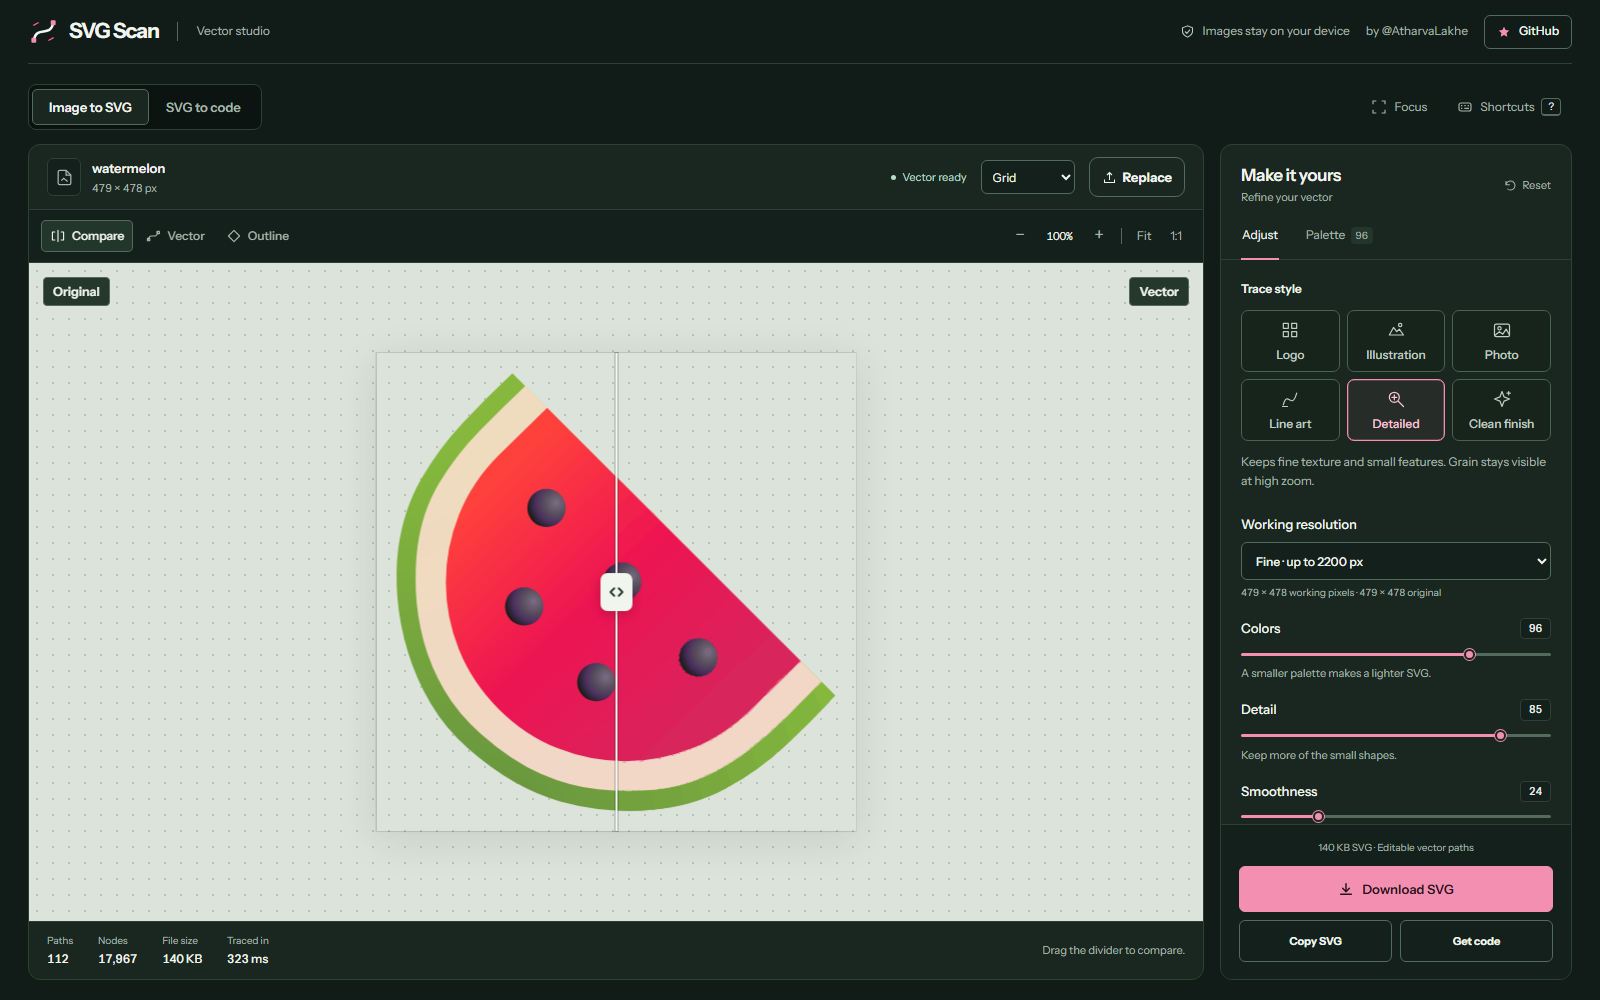
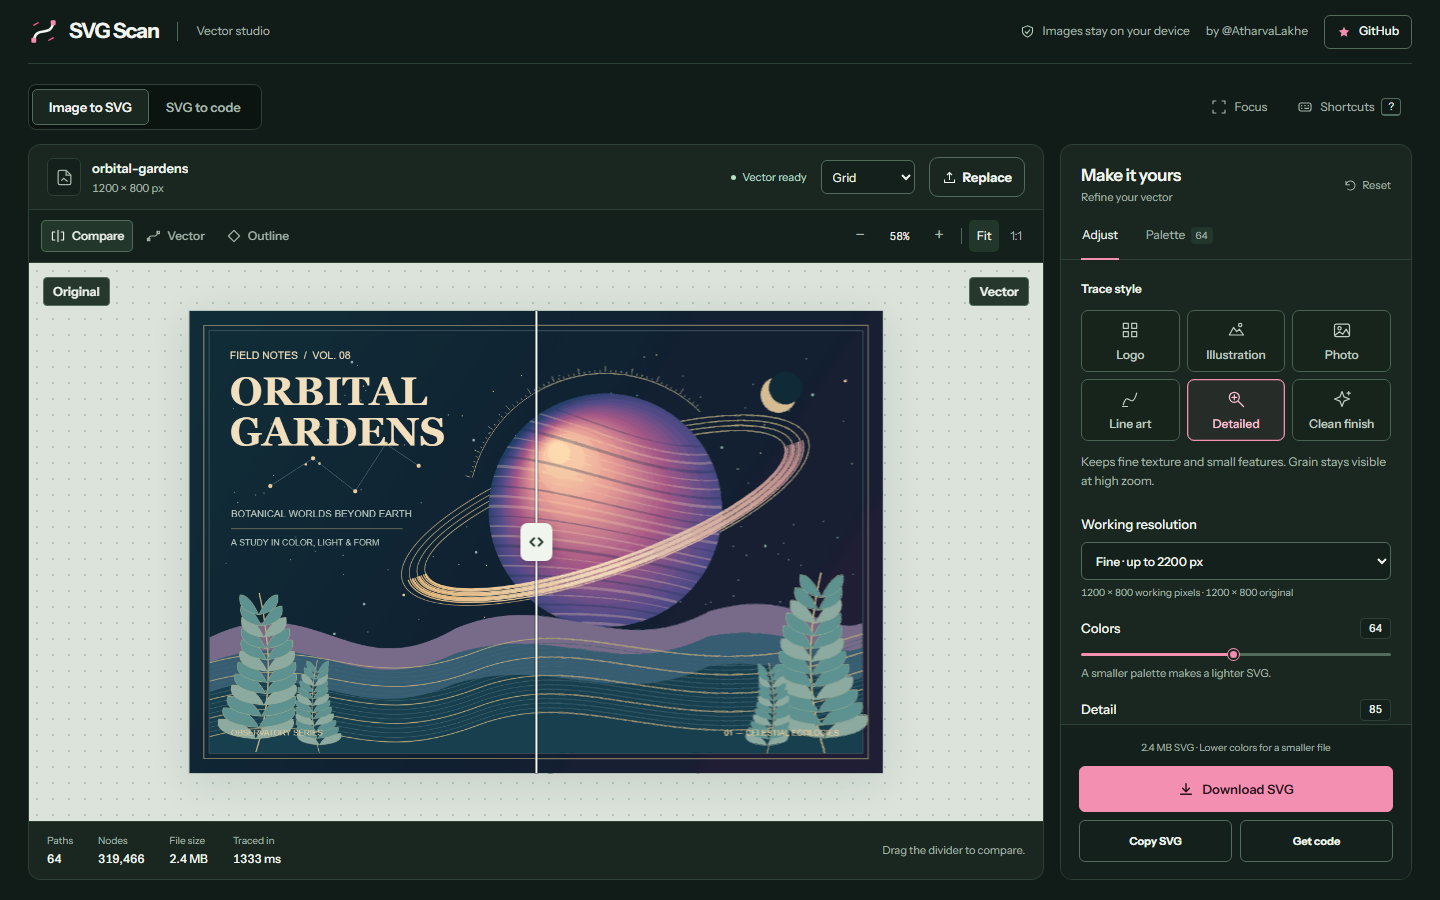
docs: animate studio demo with complex poster artwork

diff --git a/README.md b/README.md
@@ -16,9 +16,9 @@ Runs entirely in your browser. No uploads, no sign-up, no runtime dependencies.
 
 </div>
 
-<p align="center"><a href="https://atharvalakhe.github.io/SVG_Scan/"><img src="assets/studio-preview.png" alt="Current SVG Scan studio: watermelon original and vector comparison on a pale canvas, six trace presets, Fine resolution, palette controls, and SVG export actions" width="1200"></a></p>
+<p align="center"><a href="https://atharvalakhe.github.io/SVG_Scan/"><img src="assets/studio-demo.gif" alt="Animated SVG Scan demo tracing a complex celestial botanical poster, sweeping the original and vector comparison, zooming into detail, inspecting outlines, and exploring its palette" width="1200"></a></p>
 
-<p align="center"><sub>The current vector studio, with automatic Detailed tracing and Fine resolution.</sub></p>
+<p align="center"><sub>A complex poster with gradient shading, fine orbital lines, typography, and botanical layers, traced in the current studio. The loop shows tracing, comparison, zoom, outlines, and palette controls.</sub></p>
 
 ## Why
 
